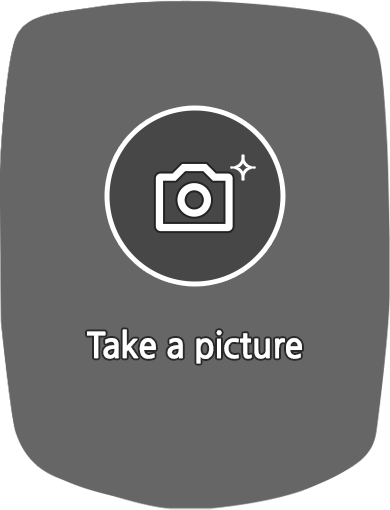
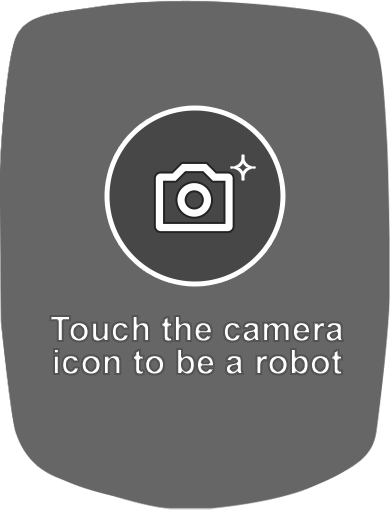
Update
Update

Changed region(s): [[0.1231, 0.6176, 0.8923, 0.7353]]

diff --git a/maincontents.js b/maincontents.js
@@ -7,8 +7,8 @@
         speak[3] = "Read a welcome message from our dean.";
         speak[4] = "Find out what classes you need for your major.";
         speak[5] = "";
-        speak[6] = "Say Cheese! ";
-        speak[7] = "Smile! You are about to become a robot.";
+        speak[6] = "Touch the camera icon and then say cheese.";
+        speak[7] = "e cool like me and become a robot, touch the camera icon on my screen.";
         speak[8] = "Pick a song and let’s boogie!";
 
 //window.external.ChangeLanguage("en-us");

diff --git a/Contents/Ventilation/index.html b/Contents/Ventilation/index.html
@@ -54,7 +54,7 @@
           <div class="nav-box-inner" onclick="ShowPopup('images/slide1.png')">
             <h1>Medtrade 2018 Tracy Robot slide_Astral R6</h1>
           </div>
-          <a href="#" class="button email" dir="http://getrobotsolutions.com/resmed/ventilation/Slide1.png">Email</a>
+          <!--<a href="#" class="button email" dir="http://getrobotsolutions.com/resmed/ventilation/Slide1.png">Email</a>-->
           
         </span>
         <div class="col-sm-4 nav-box">
